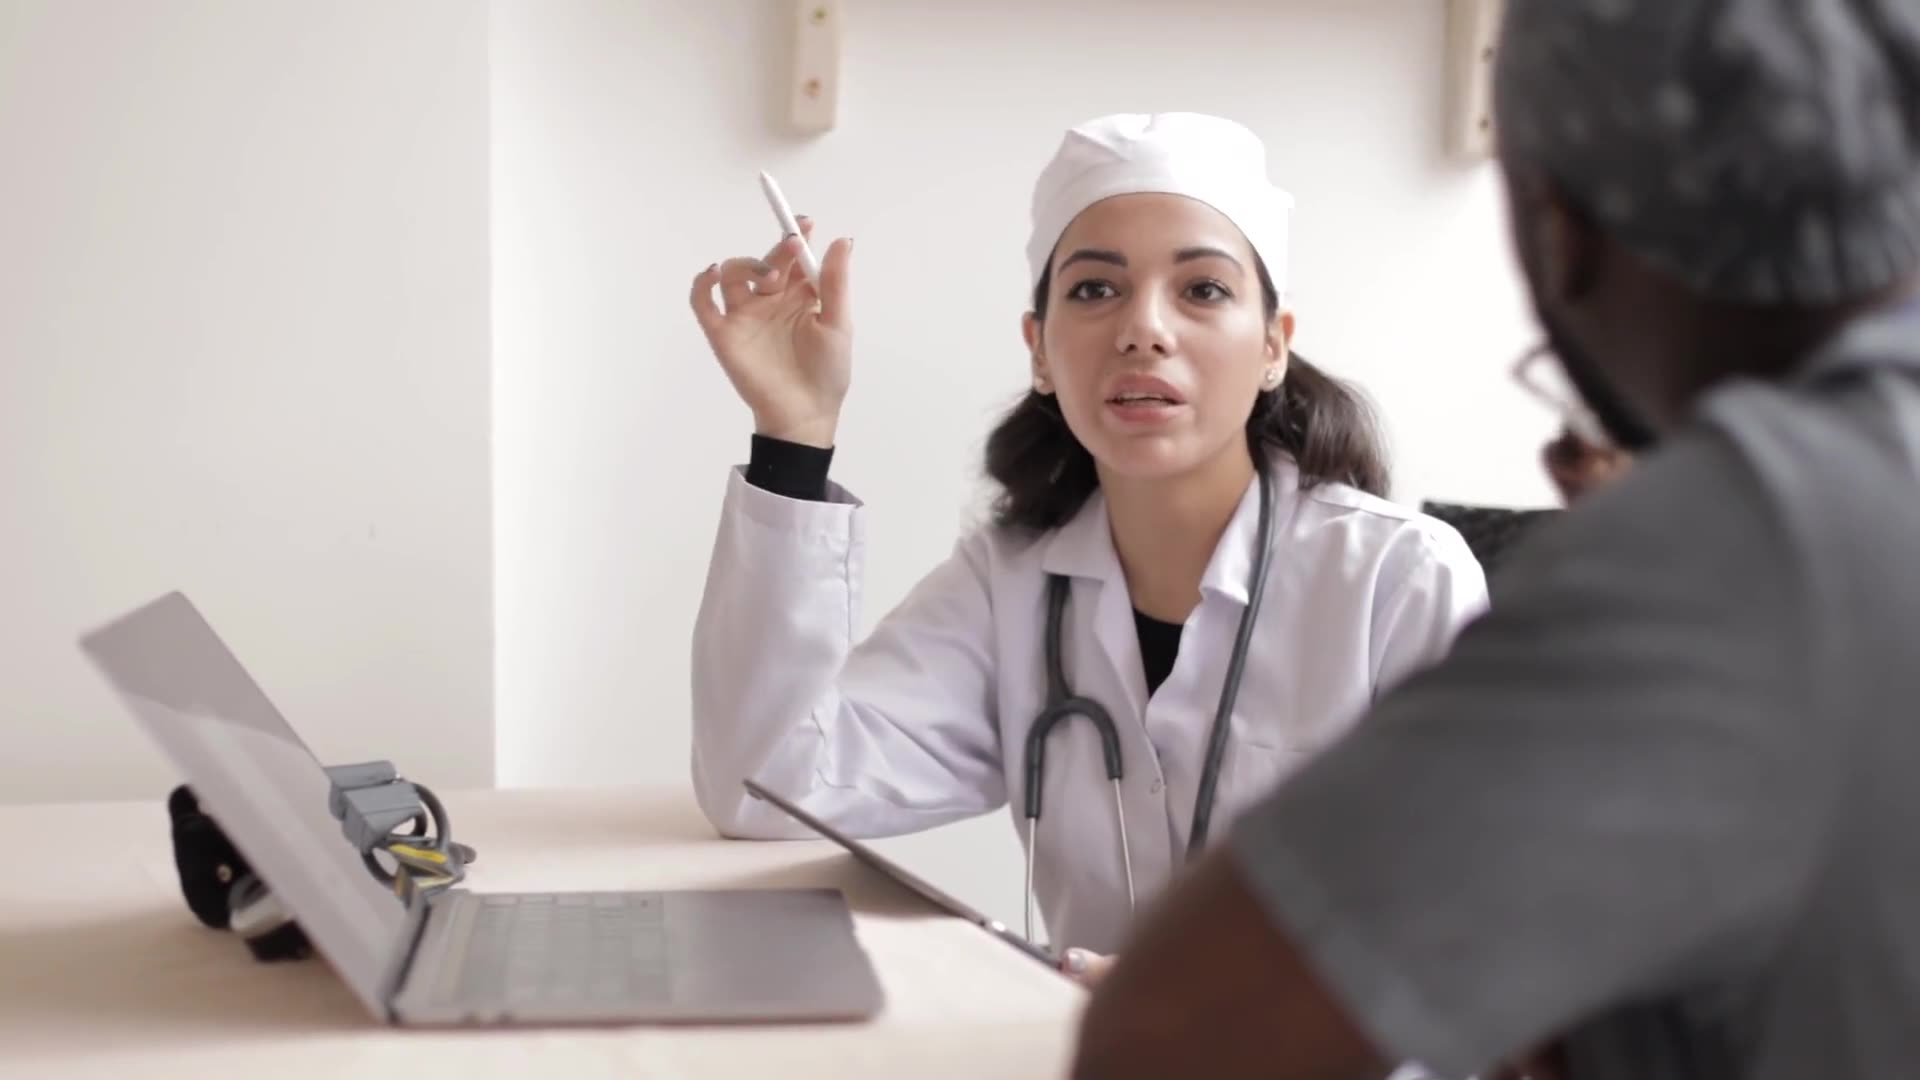
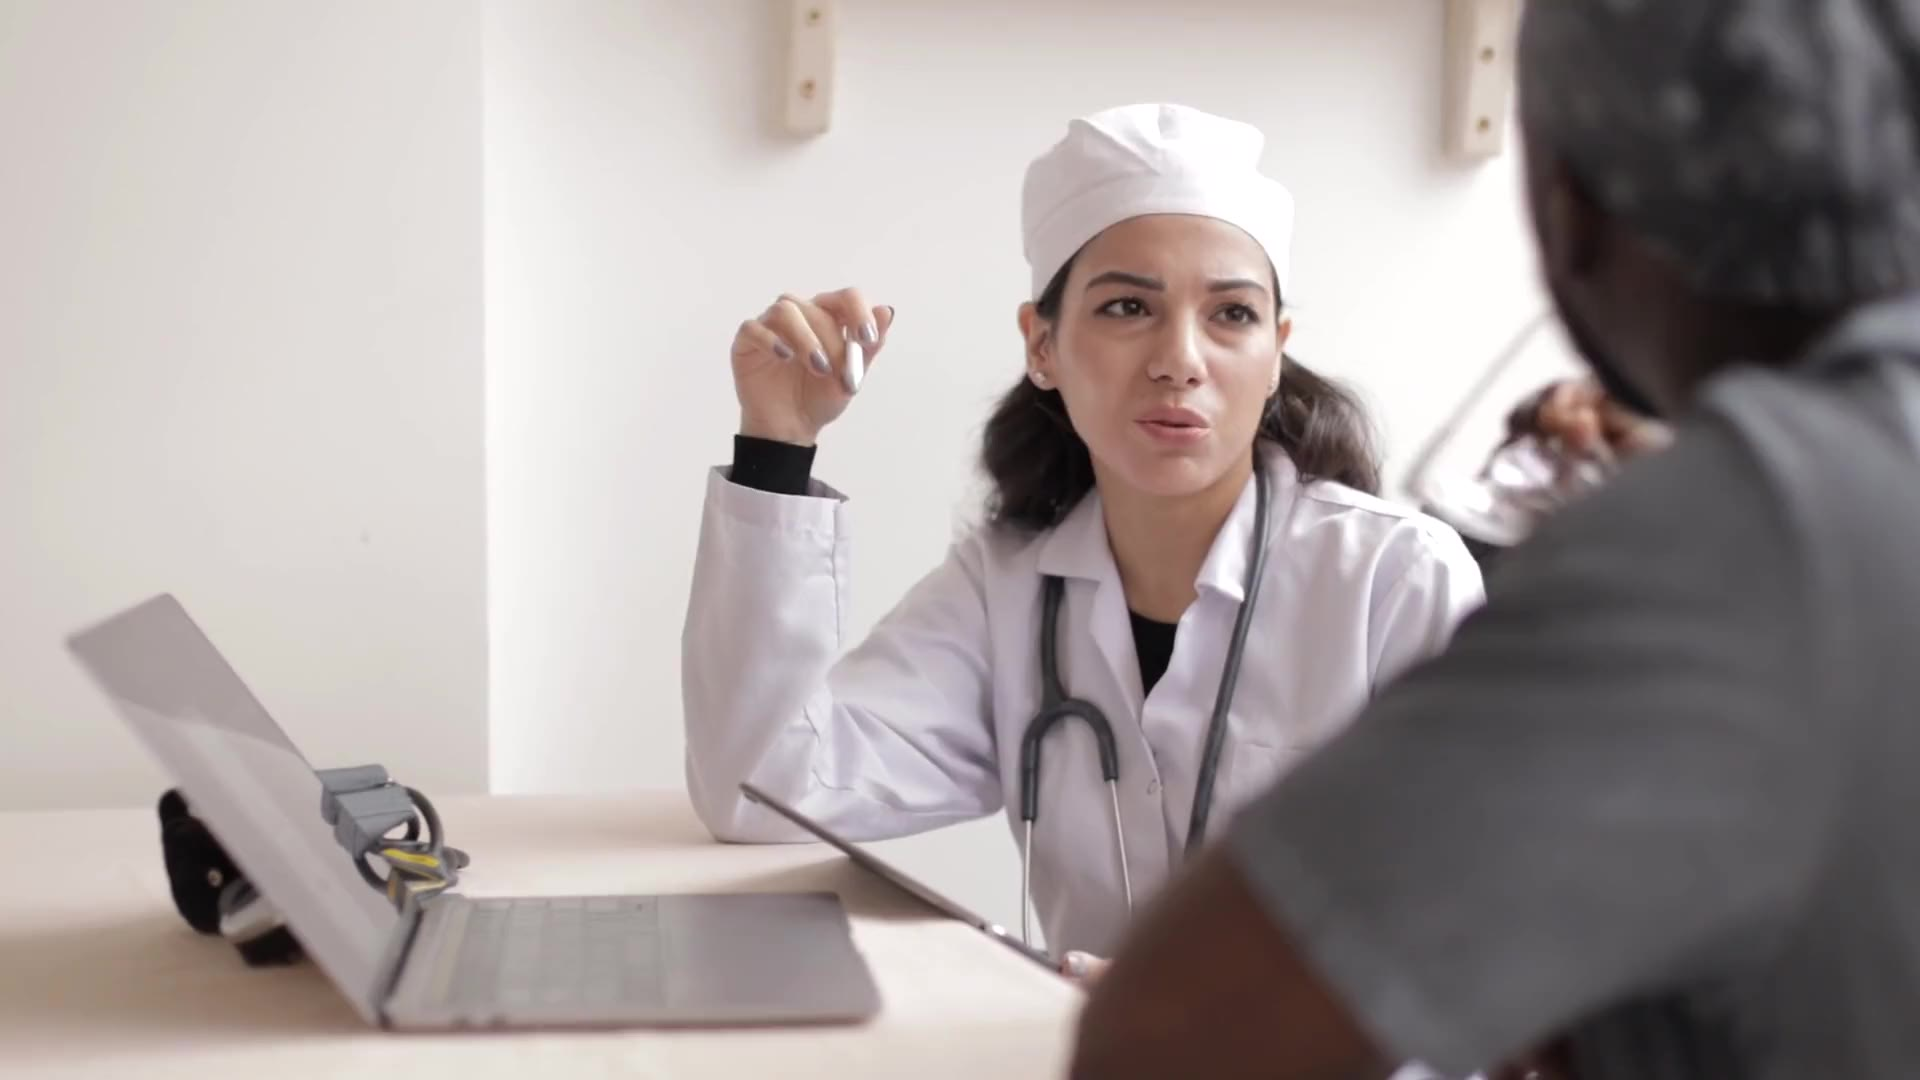
Updating the two sections below home hero with light and dark themes

diff --git a/app/globals.css b/app/globals.css
@@ -1077,3 +1077,26 @@ body:has(.hero.fb) .nav:not(.scrolled) .navtoggle{color:var(--l-ink)}
   .hero.fb{margin-top:72px;padding:72px 0 76px;min-height:auto}
   .hero.fb.bleedhead{padding:68px 0 64px;min-height:auto}
 }
+
+/* ---- Home: The workflow on a light band (follows the video hero) ---- */
+#workflow.section.light .flowcap{color:var(--l-muted)}
+#workflow.section.light .flowcap b{color:var(--blue)}
+
+/* ---- Home: The problem on a dark band — stats remapped to dark surfaces ---- */
+#problem.section.dark{--l-ink:#FFFFFF;--l-muted:#BCC0C6;--l-line:#3A4352}
+#problem.section.dark .stats{background:var(--line);border-color:var(--line)}
+#problem.section.dark .stat{background:var(--inv-s2)}
+#problem.section.dark .stat .n{color:var(--ink)}
+#problem.section.dark .stat .n .u{color:var(--blue4)}
+#problem.section.dark .stat .k,#problem.section.dark .stat .src{color:var(--muted)}
+
+/* ---- Company: Our story + Origin & meaning descriptions use the same type
+   as the section lead (e.g. Proof in production) ---- */
+.prose.prose-lead p,.origin-copy.prose-lead p:not(.otag){font-size:1.125rem;line-height:1.55;font-weight:450}
+
+/* ---- Footer on phones: brand block full width, the two link columns side by side
+   (the later 2fr/1fr/1fr rule was overriding the mobile stack and overflowing) ---- */
+@media (max-width:760px){
+  .foot .grid{grid-template-columns:1fr 1fr;gap:32px 24px}
+  .foot .grid > div:first-child{grid-column:1 / -1}
+}

diff --git a/app/page.tsx b/app/page.tsx
@@ -33,8 +33,8 @@ export default function Home() {
             muted
             loop
             playsInline
-            preload="metadata"
-            poster="/hero-fullbleed-poster.jpg?v=7"
+            preload="auto"
+            poster="/hero-fullbleed-poster.jpg?v=8"
           >
             <source src="/hero-fullbleed.mp4?v=7" type="video/mp4" />
           </video>
@@ -61,8 +61,8 @@ export default function Home() {
         </div>
       </header>
 
-      {/* NOTE. CODE. CLAIM. · dark workflow band */}
-      <section className="section dark" id="workflow">
+      {/* NOTE. CODE. CLAIM. · light workflow band */}
+      <section className="section light" id="workflow">
         <div className="wrap">
           <div className="shead reveal">
             <span className="eyebrow">The workflow</span>
@@ -106,8 +106,8 @@ export default function Home() {
         </div>
       </section>
 
-      {/* THE PROBLEM · light */}
-      <section className="section light" id="problem">
+      {/* THE PROBLEM · dark */}
+      <section className="section dark" id="problem">
         <div className="wrap">
           <div className="shead reveal">
             <span className="eyebrow">The problem</span>

diff --git a/app/company/page.tsx b/app/company/page.tsx
@@ -37,7 +37,7 @@ export default function CompanyPage() {
             <span className="eyebrow">Our story</span>
             <h2>We&apos;ve sat in every seat this software replaces.</h2>
           </div>
-          <div className="prose reveal">
+          <div className="prose prose-lead reveal">
             <p>
               Zera Health started with people who spent decades doing the work — clinical documentation, medical coding,
               revenue-cycle operations, claims, corrections, denials, and all the handoffs in between. We didn&apos;t
@@ -80,7 +80,7 @@ export default function CompanyPage() {
               <div className="opron">/ zee-ruh /</div>
               <div className="oexp">From &ldquo;zero friction&rdquo;</div>
             </div>
-            <div className="origin-copy">
+            <div className="origin-copy prose-lead">
               <p>
                 From primary care to specialty medicine, Zera removes the friction that slows revenue down: the handoffs, re-keying
                 and rework between the note, the code and the claim. AI carries each encounter through one continuous
